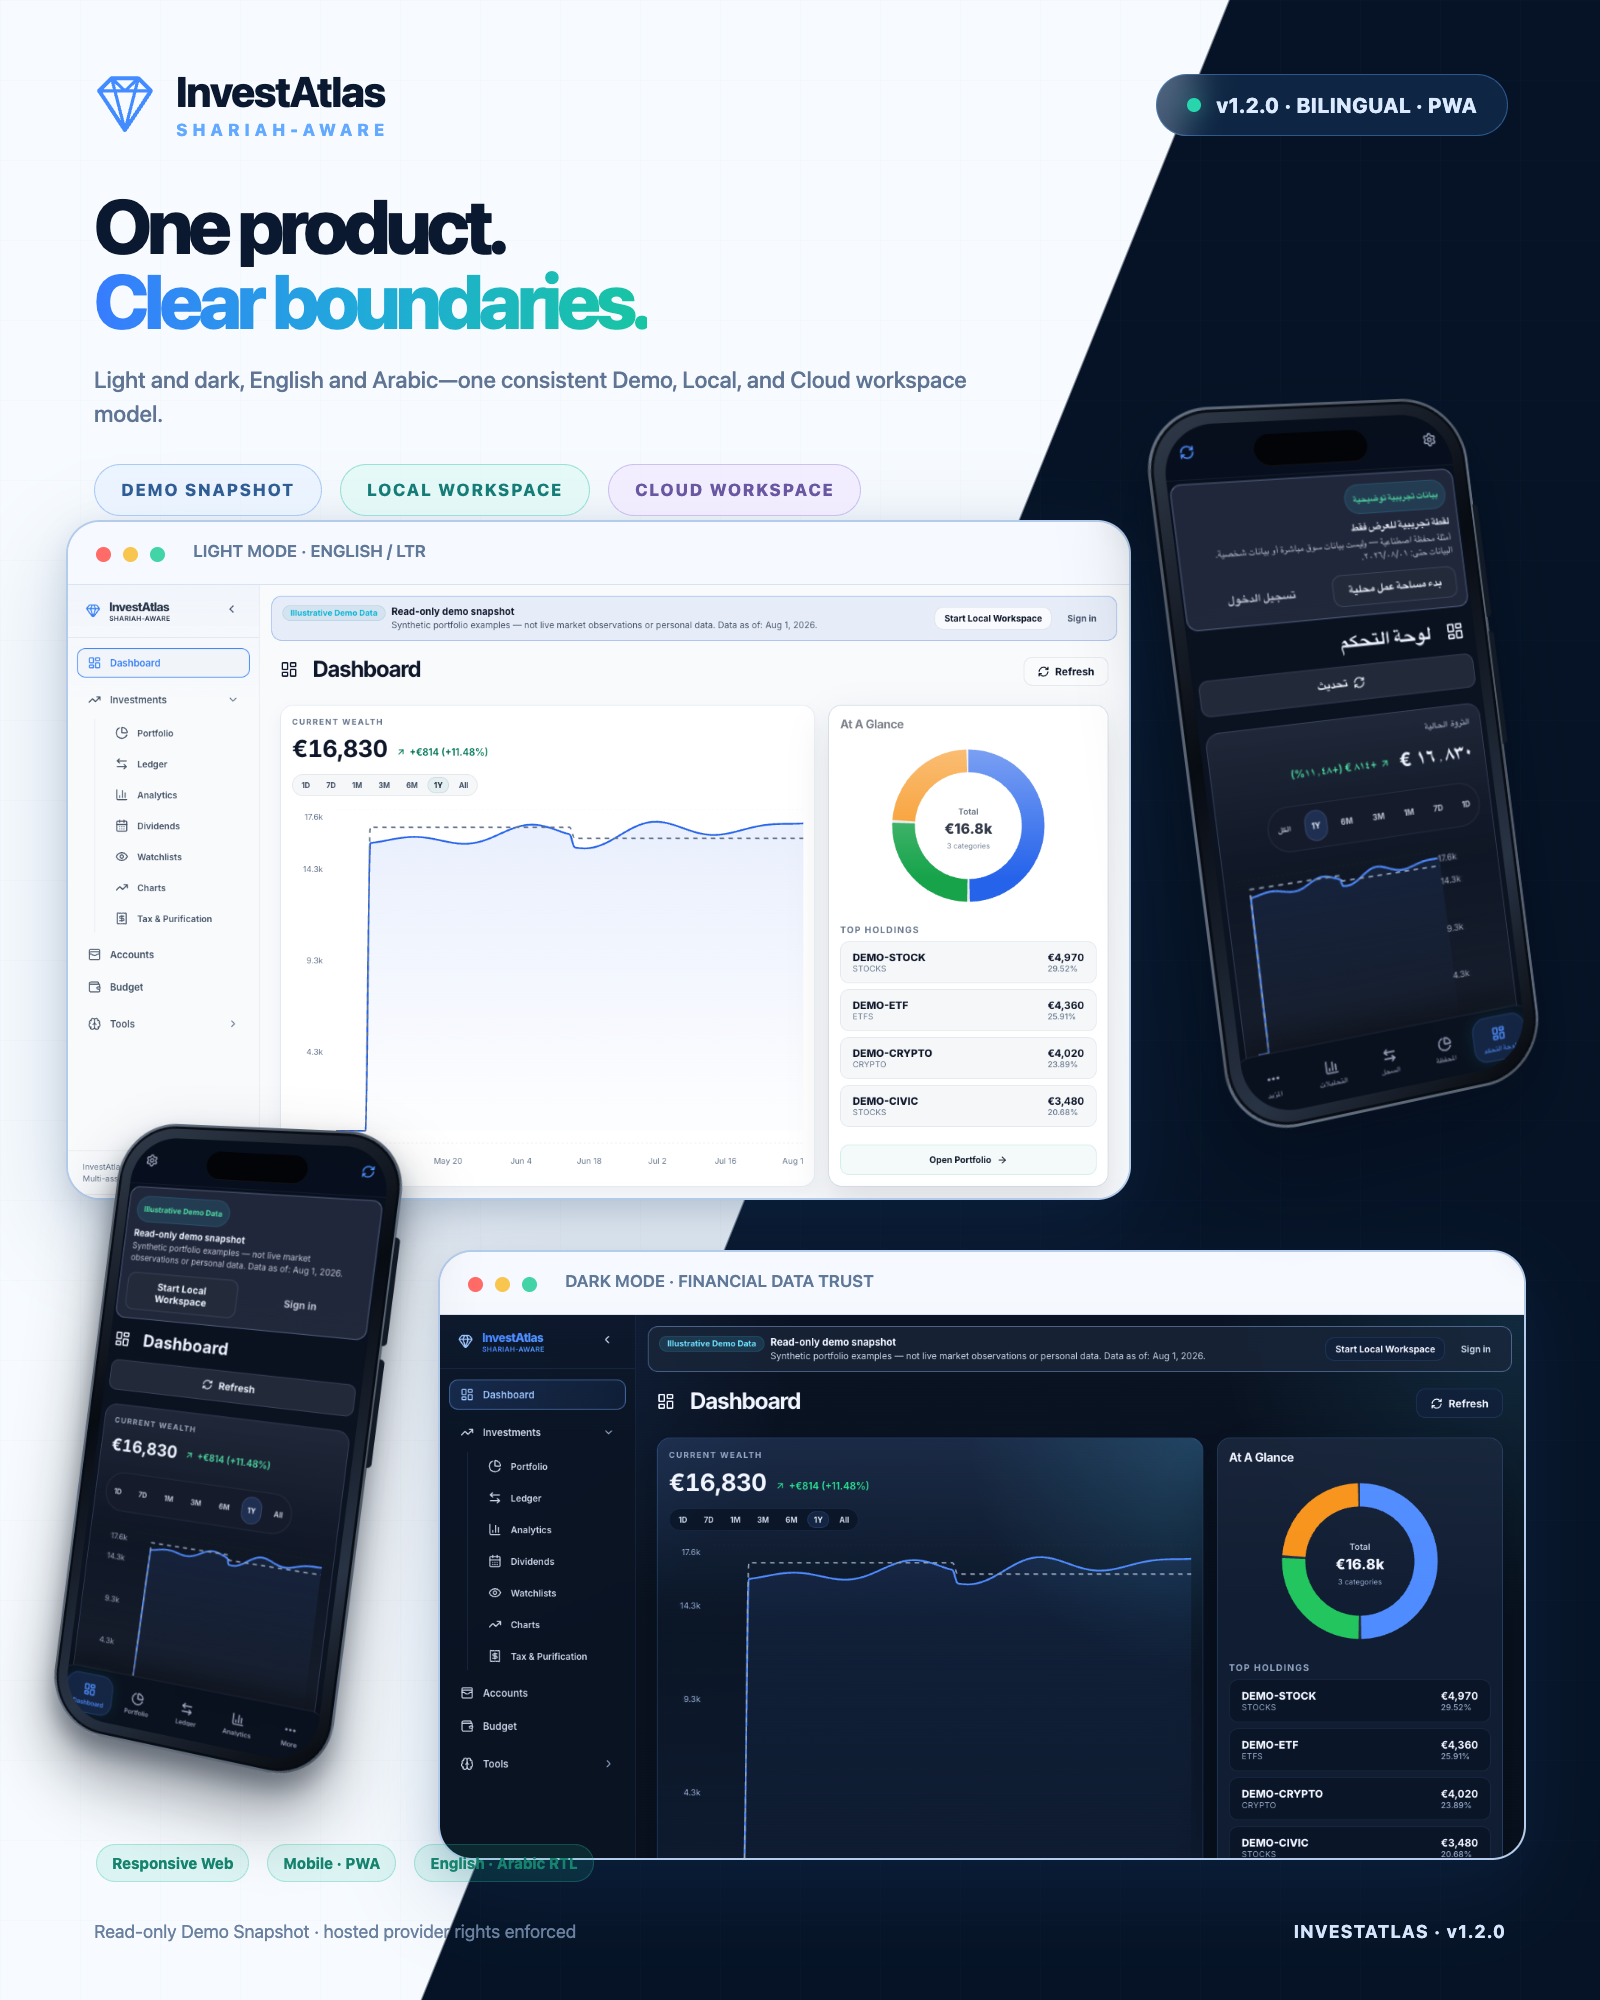
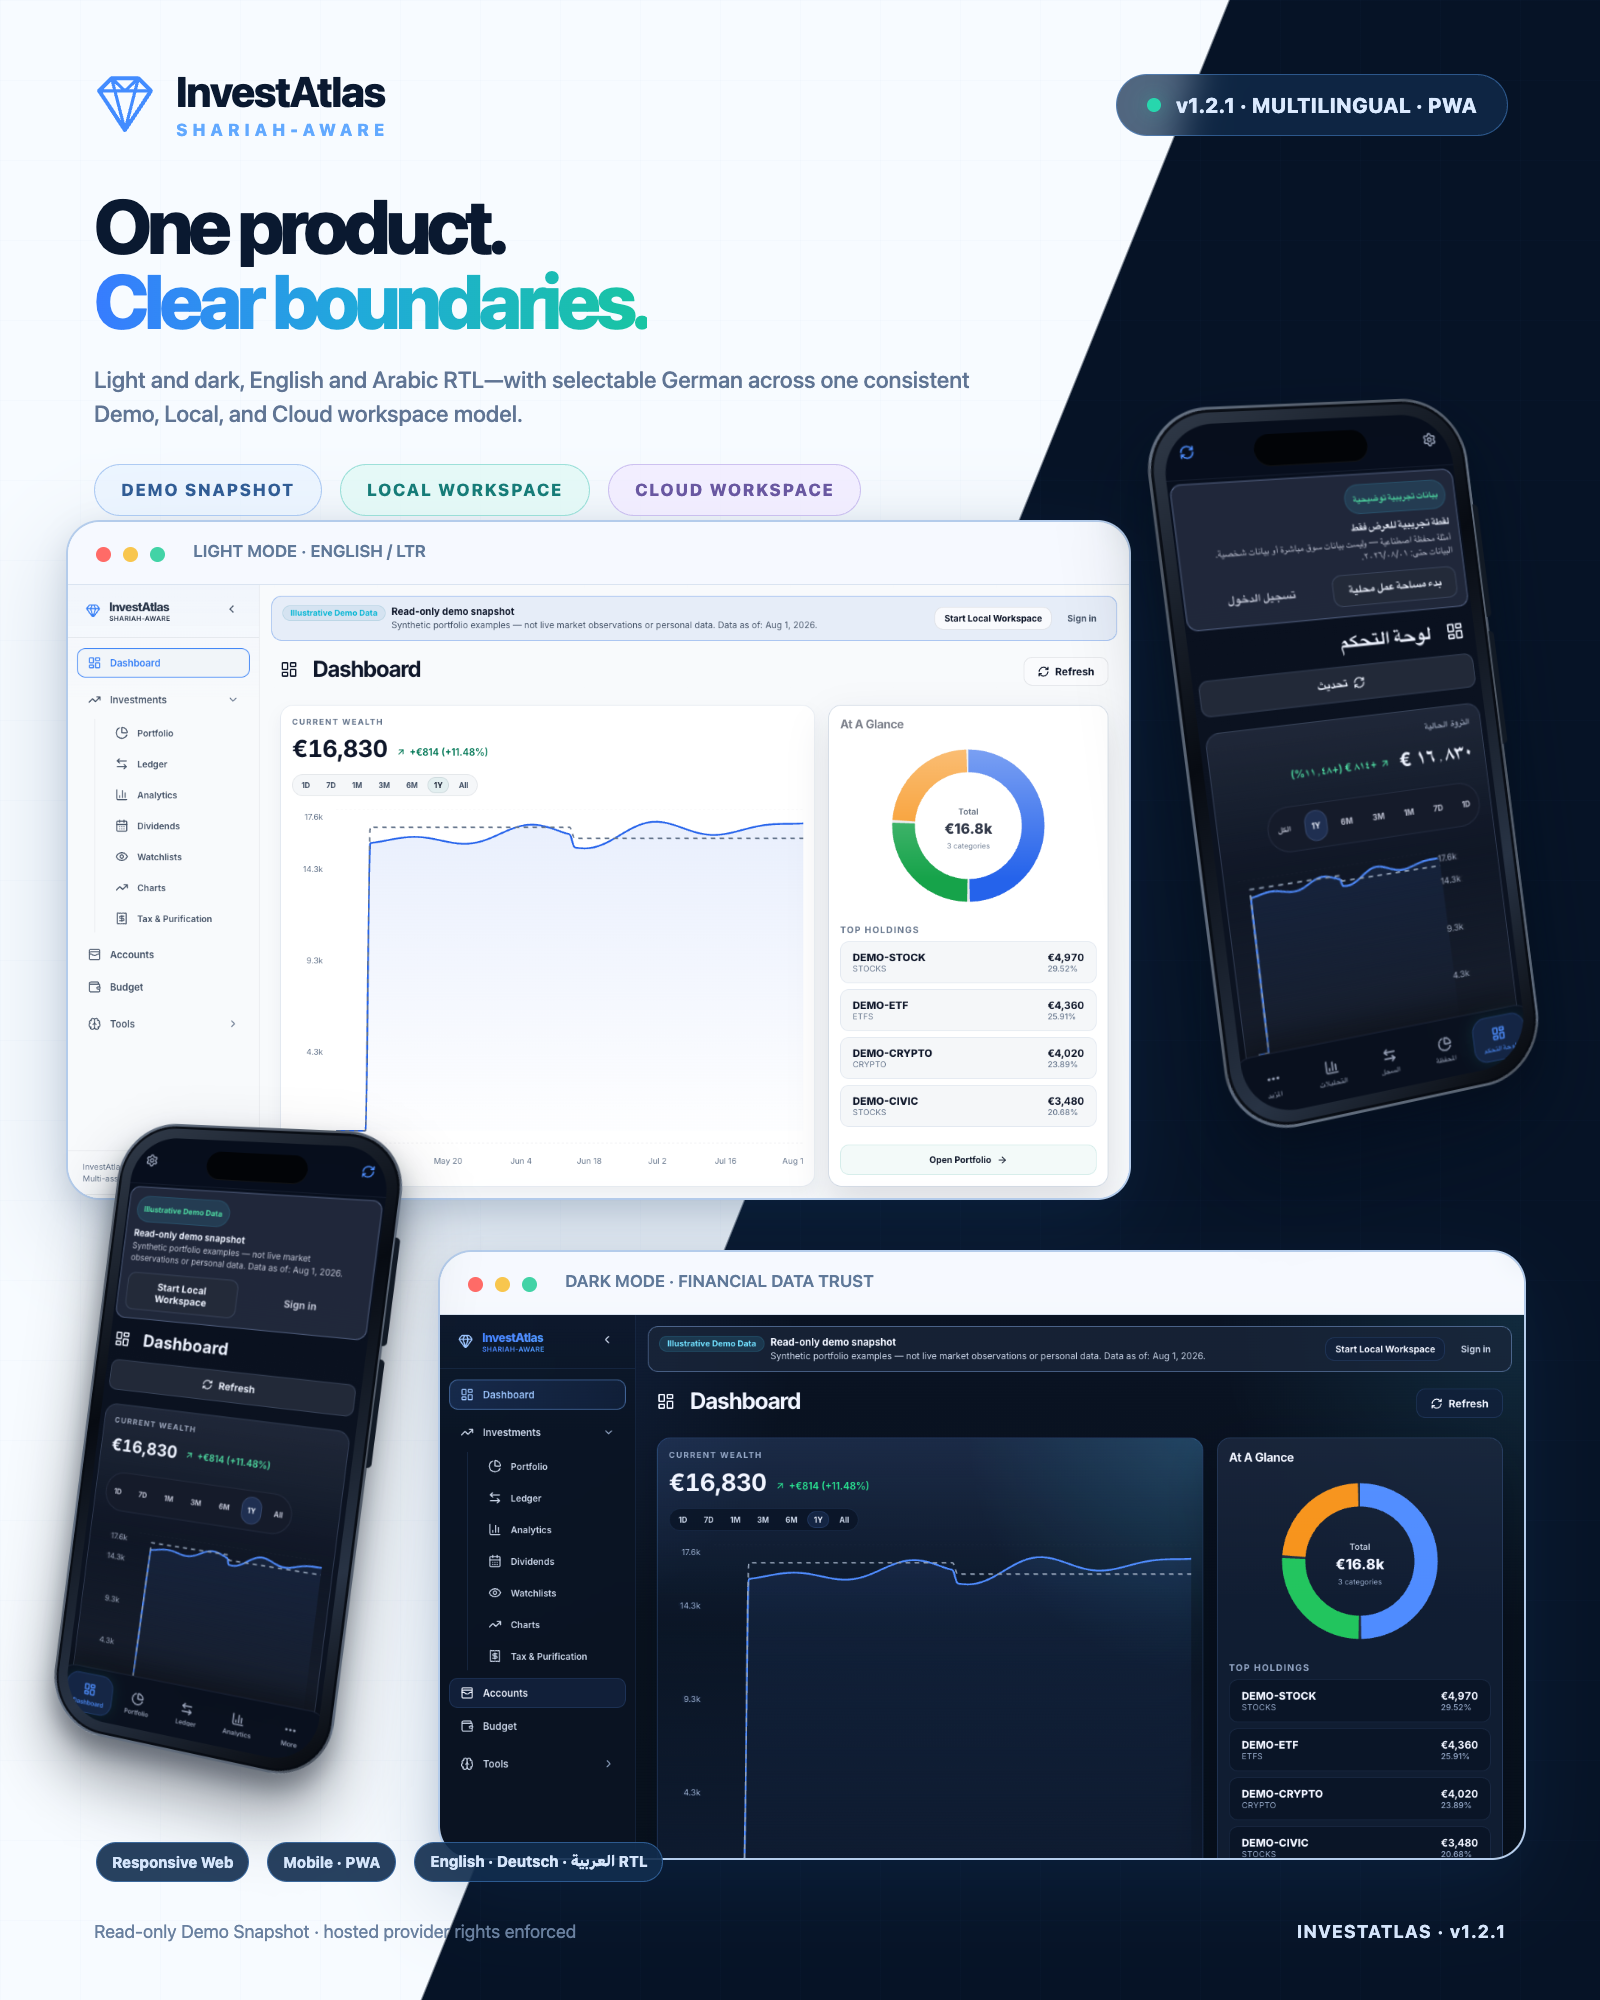
docs: publish v1.2.1 showcase

diff --git a/README.md b/README.md
@@ -8,9 +8,9 @@ InvestAtlas is a public Demo/Showcase built with production-quality engineering.
 
 InvestAtlas helps Muslim investors understand what a transparent, implemented screening methodology says about their portfolio: compliant, non-compliant, review required, or insufficient data. Missing evidence never becomes a positive result.
 
-Around that trust-first core, the app combines portfolio tracking, allocation analytics, country-aware tax awareness, technical strategy tools, purification support, optional AI interpretation, and bilingual desktop/mobile experiences.
+Around that trust-first core, the app combines portfolio tracking, allocation analytics, country-aware tax awareness, technical strategy tools, purification support, optional AI interpretation, and multilingual desktop/mobile experiences.
 
-Current public release: **v1.2.0 — Financial Data Foundation**
+Current public release: **v1.2.1 — Provider Truth & AI Key UX Patch**
 
 ## 🧭 Product Priorities
 
@@ -37,7 +37,7 @@ Current public release: **v1.2.0 — Financial Data Foundation**
 | 🧭 Demo Snapshot | Explore a dated, read-only synthetic portfolio that never enters personal calculations |
 | 🔎 Financial Data Trust | Keep source, currency, freshness, calculation, partial-data, and unavailable states visible |
 | ☁ Demo, Local, or Cloud | Use the isolated showcase, an editable browser workspace, or Firebase as the signed-in cloud path |
-| 🌐 Bilingual UI | Use English/LTR or Arabic/RTL across desktop and mobile |
+| 🌐 Multilingual UI | Use English/LTR, selectable German/LTR, or Arabic/RTL; broader German linguistic QA remains ongoing |
 
 ## 🤖 Ask AI With User-Owned API Keys
 
@@ -50,8 +50,9 @@ Possible providers:
 | Gemini | Google Gemini API access for general AI explanations |
 | Groq | Fast inference with documented free-plan limits |
 | OpenRouter | Access to many models, including free model routes where available |
+| OpenAI | Direct OpenAI API access with optional organization/project metadata |
 
-AI can explain existing portfolio information, allocation, risk, strategy calculations, momentum, SMA crossovers, and planning context. AI output is interpretation—not sourced financial data—and must not be treated as financial advice.
+AI can explain existing portfolio information, allocation, risk, strategy calculations, momentum, SMA crossovers, and planning context. AI output is interpretation—not sourced financial data—and must not be treated as financial advice. Arbitrary custom AI URLs remain disabled; supported providers use fixed, server-controlled endpoints.
 
 ## 🚀 How To Start
 
@@ -77,35 +78,44 @@ The Crypto Plan / savings-plan area can use budget, selected assets, all-time-hi
 
 ## 🖼 Screenshots
 
-### v1.2 Demo Snapshot Overview
+### v1.2.1 Demo Snapshot Overview
 
 <p align="center">
-  <img src="screenshots/poster-light-mode-overview.png" alt="InvestAtlas v1.2 read-only synthetic Demo Snapshot and hosted provider transparency in light mode with a 3D iPhone presentation" width="720">
+  <img src="screenshots/poster-light-mode-overview.png" alt="InvestAtlas v1.2.1 read-only synthetic Demo Snapshot and hosted provider transparency in light mode with a 3D iPhone presentation" width="720">
 </p>
 
-### v1.2 Financial Data Trust & Dark Mode
+### v1.2.1 Financial Data Trust & Dark Mode
 
 <p align="center">
-  <img src="screenshots/poster-dark-mode.png" alt="InvestAtlas v1.2 financial-data provenance and fail-closed states in dark mode with an Arabic RTL 3D iPhone view" width="720">
+  <img src="screenshots/poster-dark-mode.png" alt="InvestAtlas v1.2.1 financial-data provenance and fail-closed states in dark mode with an Arabic RTL 3D iPhone view" width="720">
 </p>
 
 The screening interface exposes unavailable evidence and the implemented methodology's limitations. It does not present an automated result as a fatwa or replace qualified scholarly advice.
 
-### v1.2 Market Context
+### v1.2.1 Market Context
 
 <p align="center">
-  <img src="screenshots/poster-light-mode-analytics.png" alt="InvestAtlas v1.2 visibly synthetic and dated charts and indicators with a 3D iPhone presentation" width="720">
+  <img src="screenshots/poster-light-mode-analytics.png" alt="InvestAtlas v1.2.1 visibly synthetic and dated charts and indicators with a 3D iPhone presentation" width="720">
 </p>
 
-### Light, Dark & Arabic / RTL
+### Light, Dark & Multilingual UI
 
 <p align="center">
-  <img src="screenshots/poster-light-dark-compare.png" alt="InvestAtlas v1.2 responsive light and dark interfaces with English LTR and Arabic RTL on 3D iPhone presentations" width="720">
+  <img src="screenshots/poster-light-dark-compare.png" alt="InvestAtlas v1.2.1 responsive light and dark interfaces with English LTR, selectable German, and Arabic RTL on 3D iPhone presentations" width="720">
 </p>
 
-The poster set uses the current v1.2 read-only Demo Snapshot and real hosted-provider policy UI. All holdings and charts shown are synthetic and dated. Arabic is a first-class interface language with RTL layout and explicit Shariah status terminology.
+The poster set uses the current v1.2.1 Production UI, read-only Demo Snapshot, and real hosted-provider policy. All holdings and charts shown are synthetic and dated. English and Arabic/RTL are shown directly; German is selectable, while broader German linguistic and mobile QA remains planned.
 
 ## 🧾 Release History
+
+### v1.2.1 — Provider Truth & AI Key UX Patch
+
+- Replaced an impossible hosted financial-provider Connect prompt with honest, runtime-aware availability guidance.
+- Distinguished active, local-engineering-only, and disabled provider states; hosted stock and crypto prices remain unavailable rather than being guessed.
+- Clarified optional personal AI-key support for OpenAI, Gemini, Groq, and OpenRouter through fixed server-controlled provider endpoints.
+- Removed dormant custom URLs from browser-safe metadata and strengthened secret-free logging and route-level SSRF boundaries.
+- Added focused English/German/Arabic, RTL, accessibility, Preview, Production, and independent security verification.
+- Refreshed the compact four-poster presentation from the real v1.2.1 Production UI without accumulating raw screenshots.
 
 ### v1.2.0 — Financial Data Foundation
 
